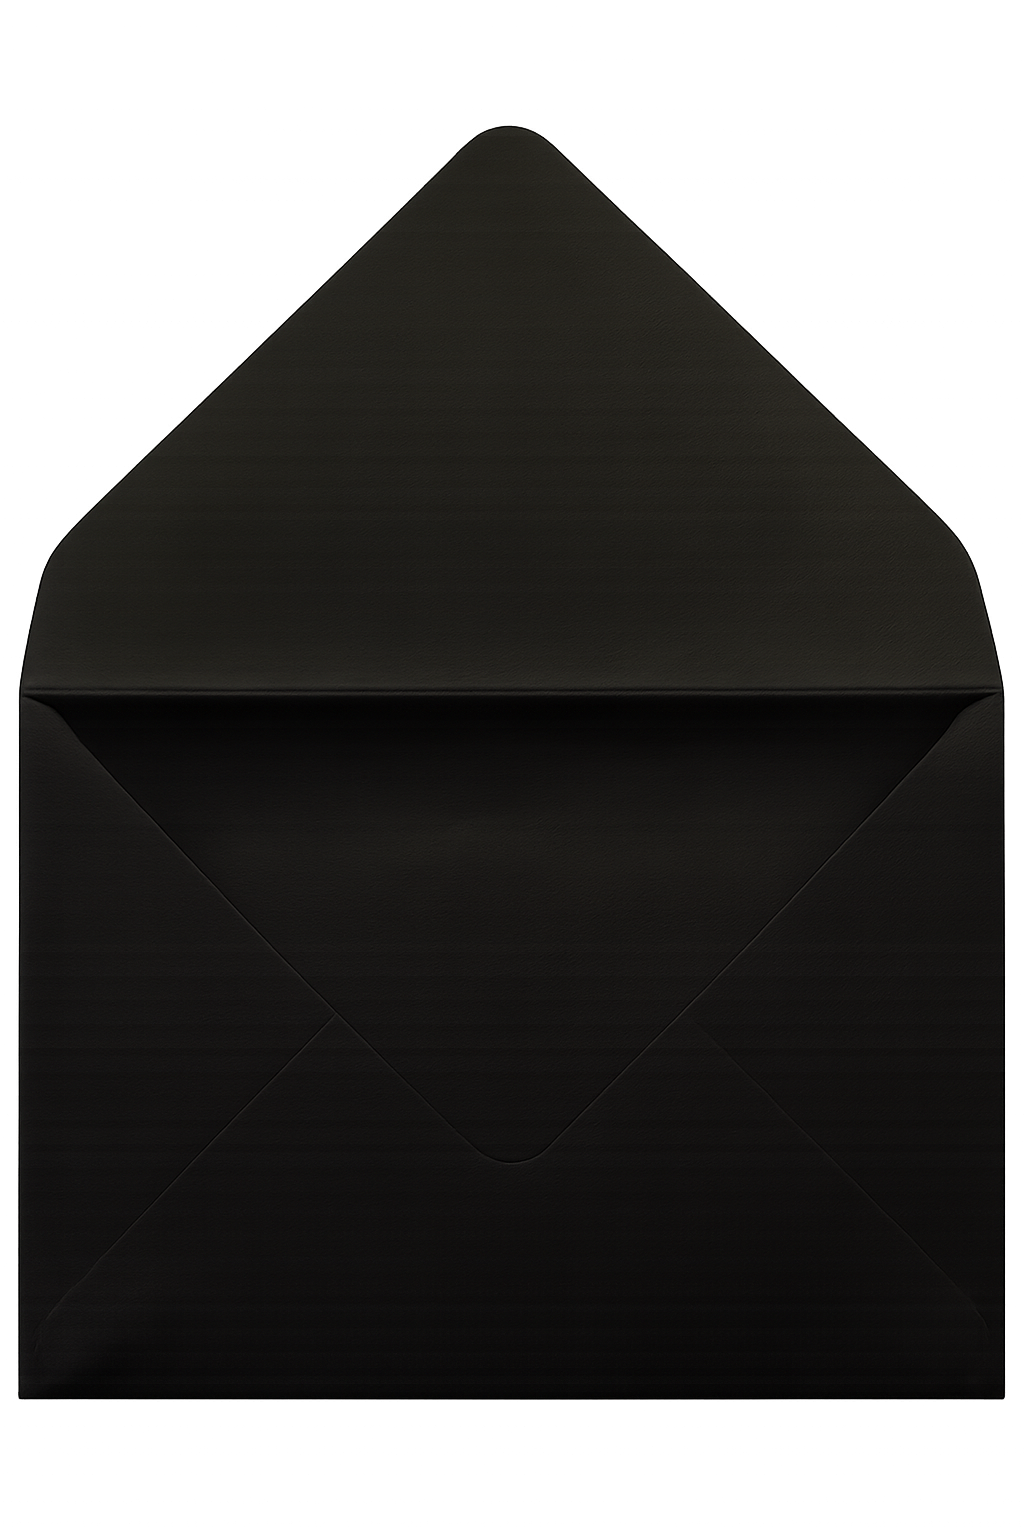
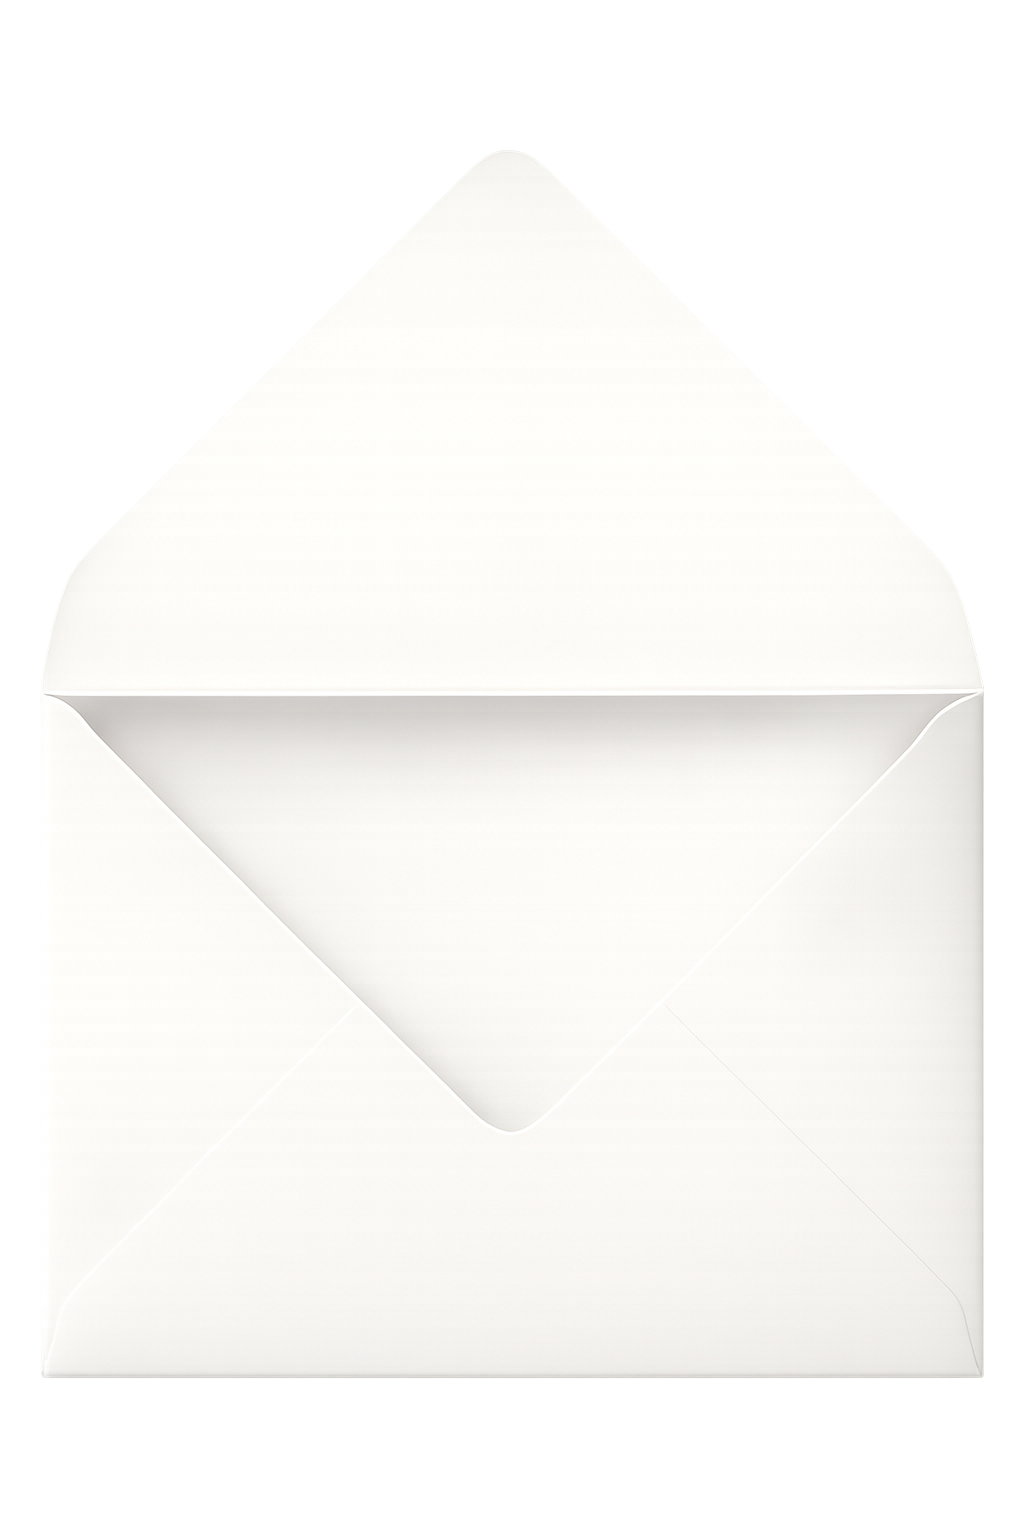
update15.03

diff --git a/scripts/main.js b/scripts/main.js
@@ -34,6 +34,102 @@ document.addEventListener('DOMContentLoaded', function() {
     const container = document.querySelector('.container');
     let envelopeOpened = false;
 
+    // ========== SCROLL LOCKING FUNCTIONALITY ==========
+    let currentSection = 0;
+    let isSnapping = false;
+    const sections = document.querySelectorAll('[data-section]');
+    const totalSections = sections.length;
+    const snapDuration = 800; // milliseconds for smooth snap
+
+    function snapToSection(sectionIndex) {
+        if (isSnapping || sectionIndex < 0 || sectionIndex >= totalSections) return;
+        
+        isSnapping = true;
+        currentSection = sectionIndex;
+        const targetSection = sections[sectionIndex];
+        const targetScroll = targetSection.offsetTop;
+        const startScroll = window.scrollY;
+        const distance = targetScroll - startScroll;
+        const startTime = performance.now();
+
+        function animate(currentTime) {
+            const elapsed = currentTime - startTime;
+            const progress = Math.min(elapsed / snapDuration, 1);
+            
+            // Easing function for smooth animation
+            const easeProgress = progress < 0.5 
+                ? 2 * progress * progress 
+                : -1 + (4 - 2 * progress) * progress;
+            
+            window.scrollTo(0, startScroll + distance * easeProgress);
+
+            if (progress < 1) {
+                requestAnimationFrame(animate);
+            } else {
+                isSnapping = false;
+            }
+        }
+
+        requestAnimationFrame(animate);
+    }
+
+    // Handle wheel events for scroll locking
+    let wheelTimeout;
+    let lastWheelDirection = 0;
+
+    document.addEventListener('wheel', function(e) {
+        if (isSnapping) {
+            e.preventDefault();
+            return;
+        }
+
+        clearTimeout(wheelTimeout);
+
+        // Determine scroll direction
+        const direction = e.deltaY > 0 ? 1 : -1; // 1 for down, -1 for up
+        lastWheelDirection = direction;
+
+        // Calculate which section to snap to
+        if (direction > 0) {
+            // Scrolling down
+            if (currentSection < totalSections - 1) {
+                snapToSection(currentSection + 1);
+            }
+        } else {
+            // Scrolling up
+            if (currentSection > 0) {
+                snapToSection(currentSection - 1);
+            }
+        }
+
+        e.preventDefault();
+
+        // Reset after a short delay to ensure snap completes
+        wheelTimeout = setTimeout(() => {
+            lastWheelDirection = 0;
+        }, snapDuration);
+
+    }, { passive: false });
+
+    // Handle keyboard navigation
+    document.addEventListener('keydown', function(e) {
+        if (isSnapping) return;
+
+        if (e.key === 'ArrowDown' || e.key === ' ') {
+            if (currentSection < totalSections - 1) {
+                snapToSection(currentSection + 1);
+                e.preventDefault();
+            }
+        } else if (e.key === 'ArrowUp') {
+            if (currentSection > 0) {
+                snapToSection(currentSection - 1);
+                e.preventDefault();
+            }
+        }
+    });
+
+    // ========== END SCROLL LOCKING FUNCTIONALITY ==========
+
     // Scroll Down Indicator
     const scrollIndicator = document.getElementById('scrollIndicator');
     let hasScrolled = false;

diff --git a/index.html b/index.html
@@ -13,7 +13,7 @@
 </head>
 <body>
     <div class="page-wrapper">
-        <section class="hero-section">
+        <section class="hero-section" data-section="0">
             <div class="container">
                 <!-- Top Message -->
                 <div class="mail-header">
@@ -37,7 +37,7 @@
                     
                     <div class="invite-card">
                         <img src="assets/Babybreath.png" alt="Baby breath decoration" class="babybreath-decoration" style="transform: scaleX(-1) translate(250px, -200px) rotate(-45deg);">
-                        <img src="assets/STD6.png" alt="Save the Date" class="invite-image">
+                        <img src="assets/Bestcard1.2.png" alt="Save the Date" class="invite-image">
                     </div>
                 </div>
 
@@ -55,7 +55,7 @@
         </section>
 
         <!-- Date and Countdown Section -->
-        <section class="date-countdown-section">
+        <section class="date-countdown-section" data-section="1">
             <div class="container">
                 <!-- Date Display -->
                 <div class="date-display">

diff --git a/styles/style.css b/styles/style.css
@@ -5,7 +5,8 @@
 }
 
 html {
-    scroll-behavior: smooth;
+    scroll-behavior: auto;
+    overflow-y: scroll;
 }
 
 body {
@@ -59,7 +60,7 @@ body::before {
     justify-content: center;
     align-items: center;
     overflow: hidden;
-    /* background-image: url('../assets/WoodTable.jpg'); */
+    background-image: url('../assets/TopBackground.jpg');
     background-size: cover;
     background-position: center;
     background-repeat: no-repeat;
@@ -264,8 +265,7 @@ body::before {
     position: absolute;
     top: 50%;
     left: 50%;
-    transform: translate(-50%, -50%);
-    background-image: url('../assets/Floralframe.png');
+    /* background-image: url('../assets/Floralframe.png'); */
     background-size: 100%;
     background-position: center;
     background-repeat: no-repeat;
@@ -620,8 +620,8 @@ body::before {
     position: absolute;
     width: auto;
     height: auto;
-    max-width: 800px;
-    max-height: 800px;
+    max-width: 600px;
+    max-height: 600px;
     display: block;
     pointer-events: none;
     z-index: 3;
